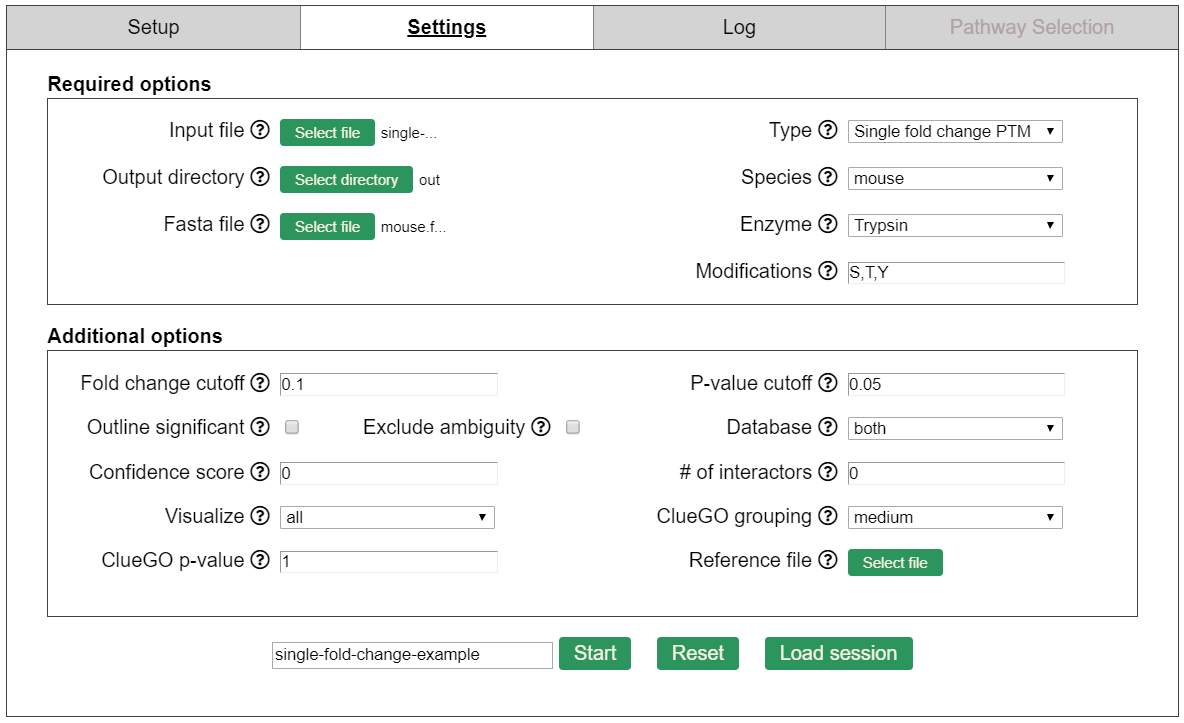
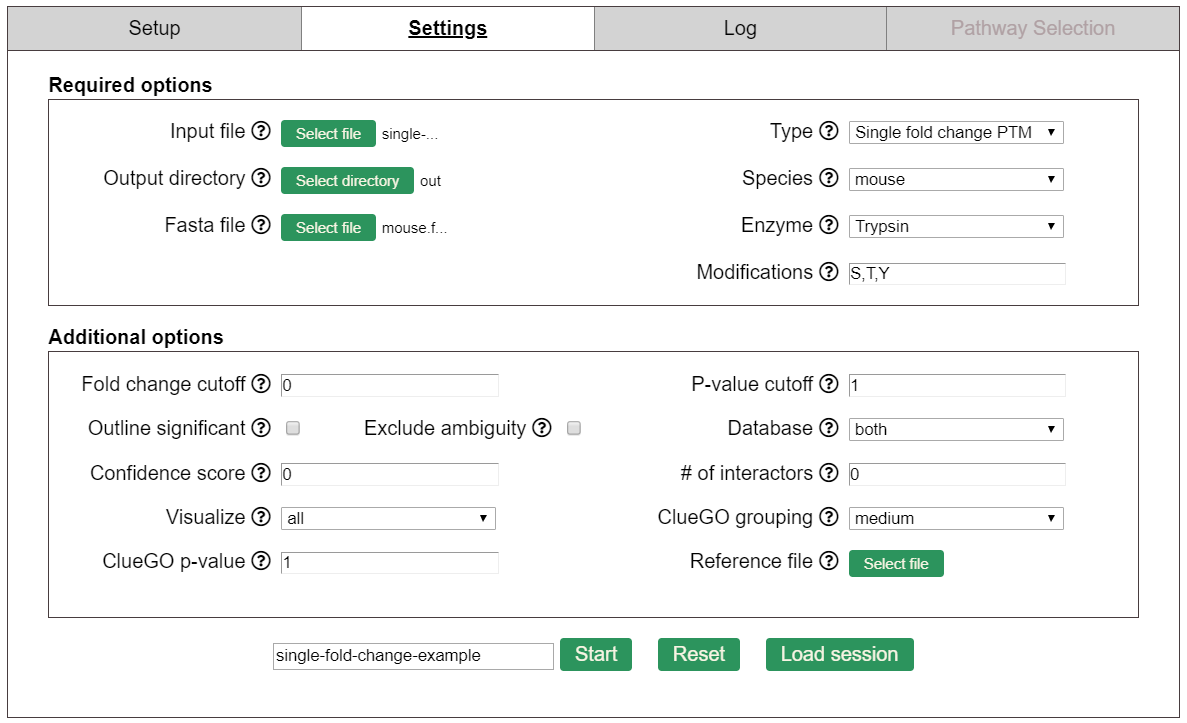
examples updated

diff --git a/examples/single fold change PTM/README.md b/examples/single fold change PTM/README.md
@@ -1,6 +1,8 @@
 # Single fold change PTM example
+
 ## Download the example files
 You'll need the **single-fold-change-data.csv** and **mouse.fasta** to run this example.
+
 ## Open PINE and set the run parameters
 Make sure PINE was able to find your Cytoscape.exe and ClueGO configuration folder.  You'll need to provide the locations if it can't find them.
 - Select the **single-fold-change-data.csv** as your input file.
@@ -10,8 +12,8 @@ Make sure PINE was able to find your Cytoscape.exe and ClueGO configuration fold
 - Select the **mouse.fasta** as your fasta file.
 - Set the enzyme to **Typsin**.
 - Set the modifications to **S,T,Y**.
-- Set fold change cutoff to **0.1**.
-- Set p-value cutoff to **0.05**.
+- Set fold change cutoff to **0**.
+- Set p-value cutoff to **1**.
 - **Uncheck** outline significant.
 - **Uncheck** exclude ambiguity.
 - Set database to **both**.
@@ -25,3 +27,20 @@ Make sure PINE was able to find your Cytoscape.exe and ClueGO configuration fold
 
 Your settings should look like the following when you're done.  Click **Start** to run.
 ![settings](images/settings.png)
+
+## Analysis esults
+After PINE finishes running, you can go to the **Network** tab in the Cytoscape control panel and select the **Interaction Network**.  This is the single fold change interaction network.  Each yellow square is a gene and the circles represent fold changes for PTMS on the genes' proteins.  Your network should look similar to the image below (but not exactly because the layout algorithms may produce different results and the interaction databases may change over time).
+![results 1](images/results-1.png)
+
+## Pathway selection
+You can now refine your results by selecting different pathways or GO terms to reanalyze with.  Go back to PINE and select a few terms, then click **Reanalyze**.
+![pathway selection](images/pathway-selection.png)
+
+## Reanalysis results
+After the PINE reanalysis completes, you will have two networks in your Cytoscape session.  The first is a new interaction network containing only genes from the terms you selected.  The second is an ontology network for associations between genes and the selected ontologies.
+
+**New interaction network:**
+![results 2](images/results-2.png)
+
+**Ontology network:**
+![results 3](images/results-3.png)
